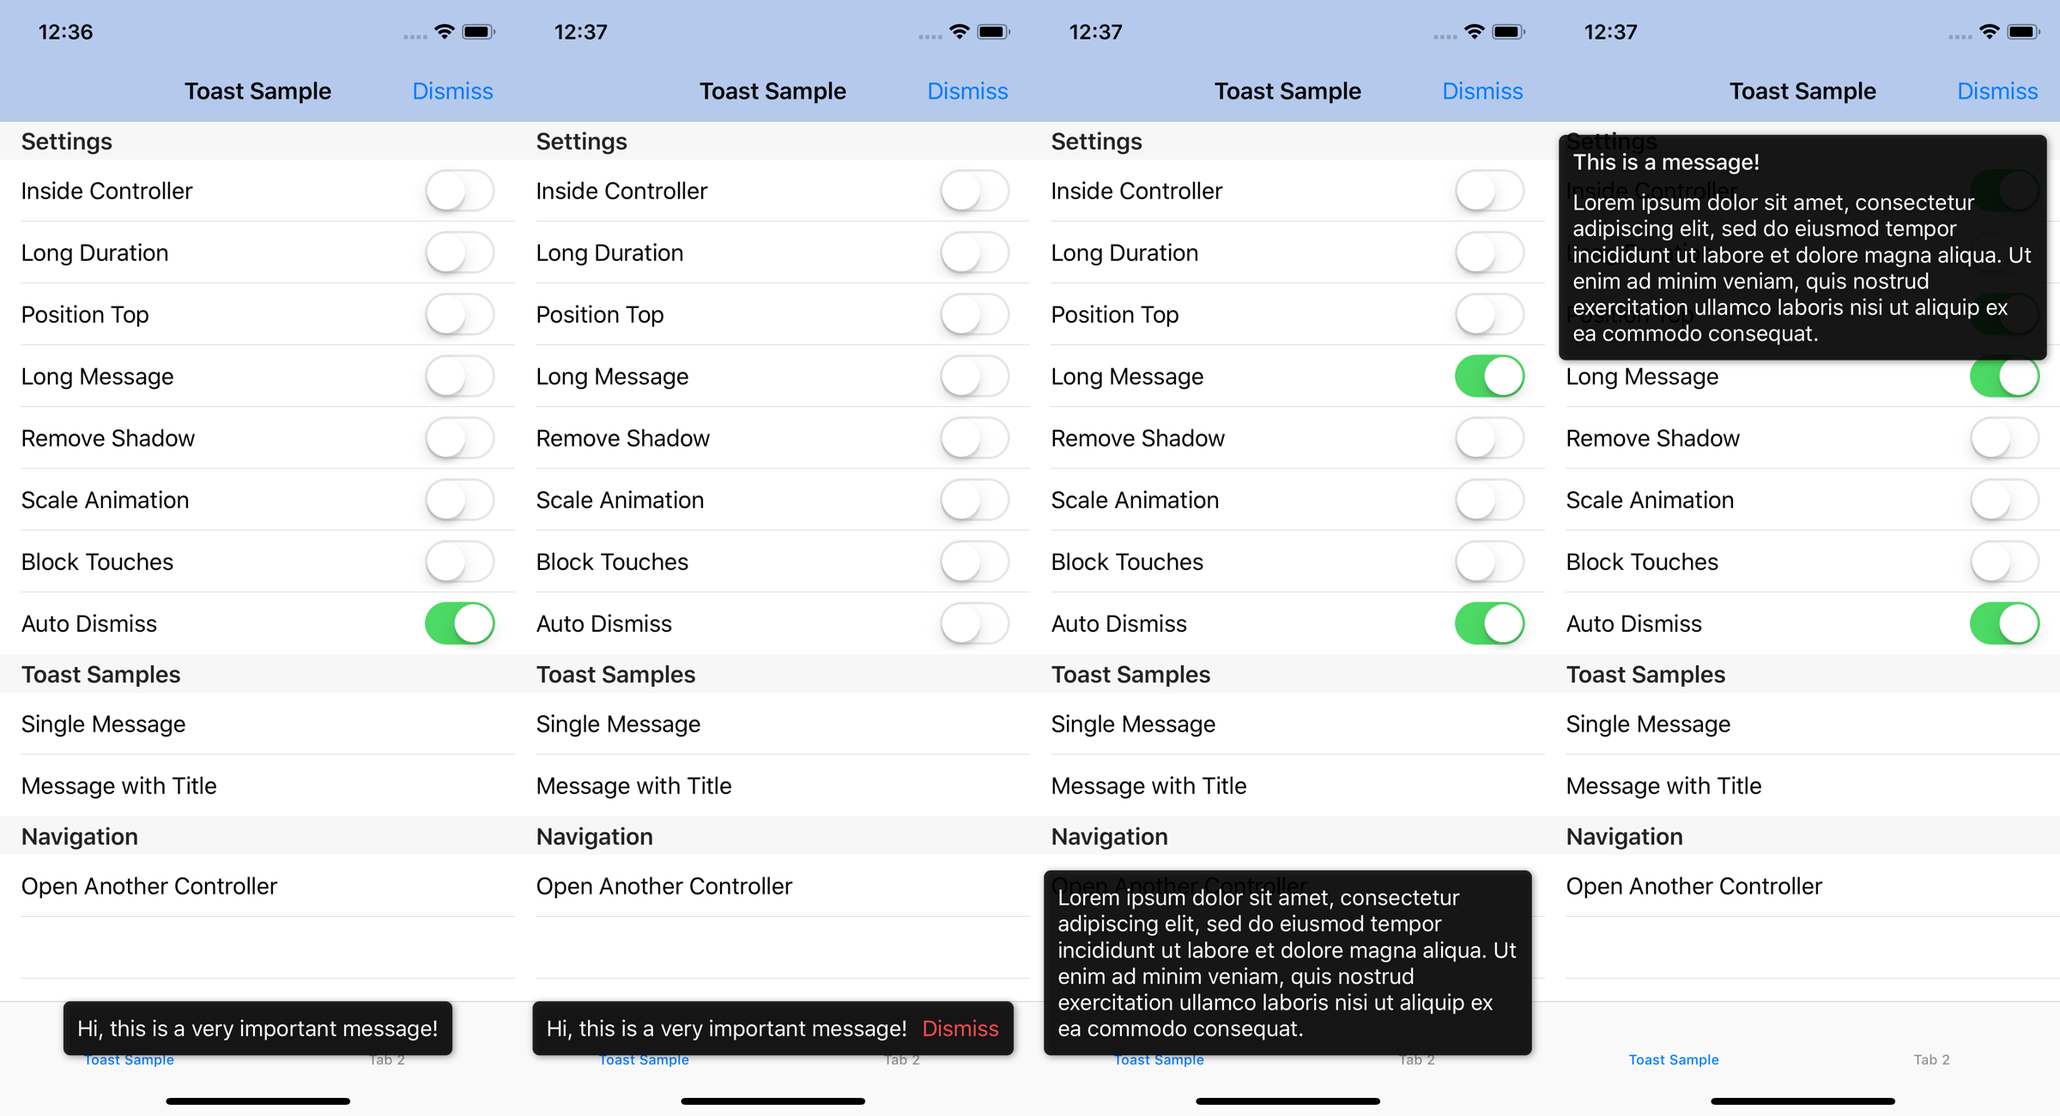
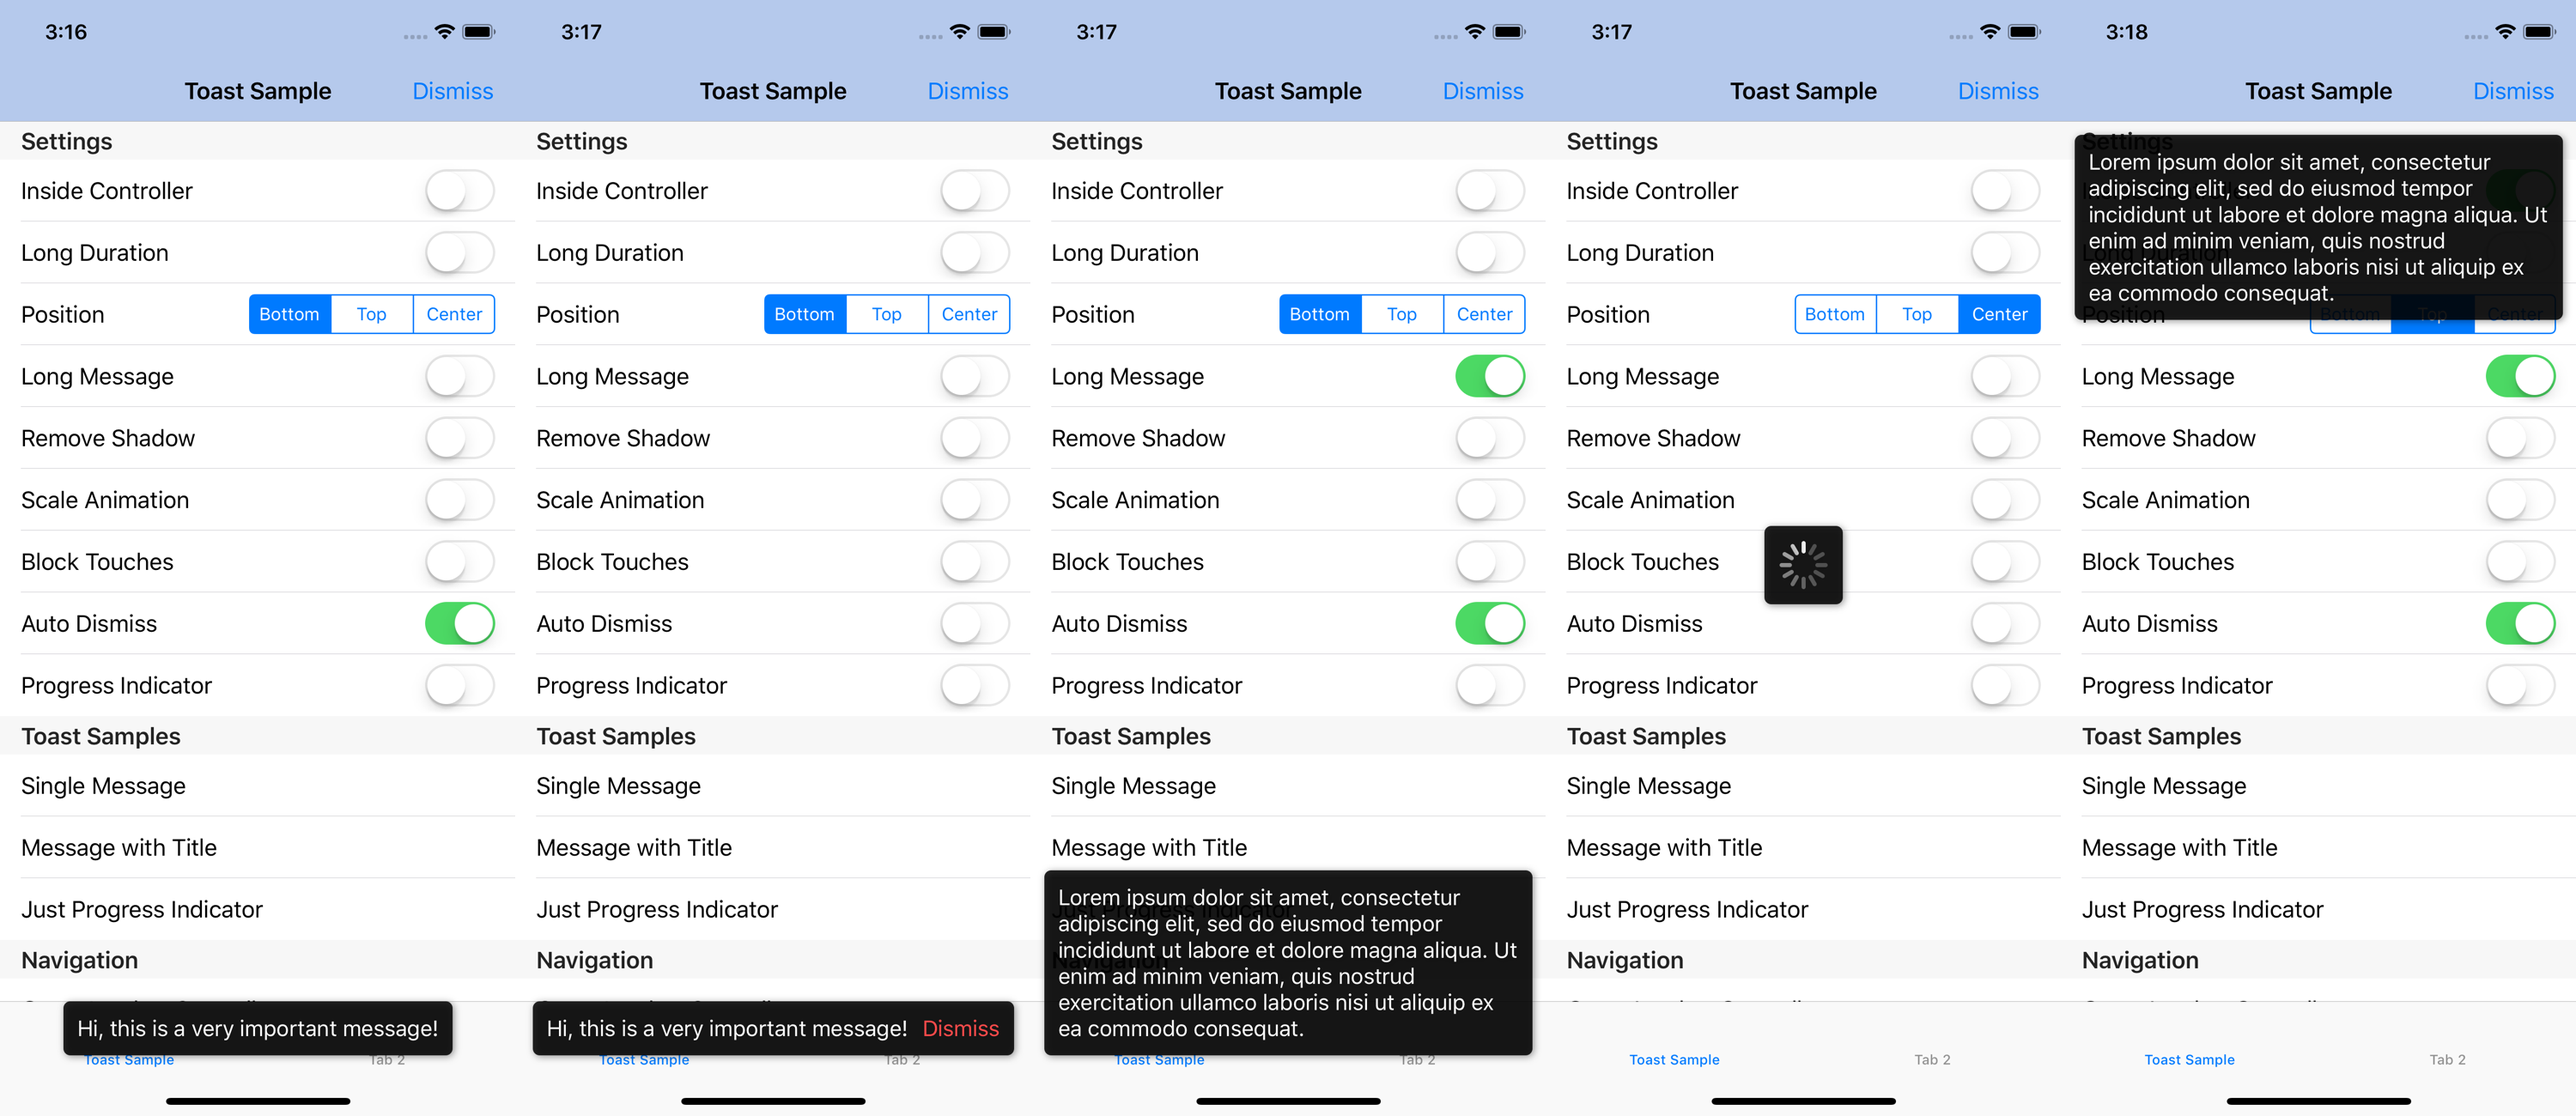
Added ability to dismiss regular toasts. Improved documentation.

diff --git a/Toast/Toast.cs b/Toast/Toast.cs
@@ -93,6 +93,24 @@ namespace GlobalToast
         }
 
         /// <summary>
+        /// Helper method that creates a progress indicator (spinner) 
+        /// without any text and immediately shows it.
+        /// </summary>
+        public static Toast ShowProgressIndicator(ToastPosition position = ToastPosition.Bottom)
+        {
+            var toast = new Toast
+            {
+                Message = null,
+                Title = null,
+                Position = position,
+                ProgressIndicator = true
+            };
+            toast.Show();
+
+            return toast;
+        }
+
+        /// <summary>
         /// Sets the message of the toast
         /// </summary>
         public Toast SetMessage(string message)
@@ -248,46 +266,25 @@ namespace GlobalToast
 
             ToastView.Setup();
 
+            ToastView.AnimateShow();
+
             if(AutoDismiss)
             {
-                ToastView.AnimateShow();
                 new ToastTimer(ToastView, Duration, () =>
                 {
-                    Remove();
+                    Dismiss();
                 }).Start();
-            }
-            else
-            {
-                ToastView.AnimateShow();
-                ToastView.DismissAction = () =>
-                {
-                    ToastView.DismissAction = null;
-                    Remove();
-                };
             }
 
             return this;
         }
 
         /// <summary>
-        /// If <see cref="AutoDismiss"/> is false this method will dismiss 
-        /// shown toast without user input.
+        /// Dismisses the toast without user input.
         /// </summary>
         public void Dismiss()
         {
-            if(AutoDismiss == false)
-                ToastView?.DismissAction?.Invoke();
-        }
-
-        private void Remove()
-        {
-            ToastView.InvokeOnMainThread(() =>
-            {
-                ToastView.AnimateHide(() =>
-                {
-                    ToastView.RemoveFromSuperview();
-                });
-            });
+            ToastView?.Dismiss();
         }
 
         /// <summary>

diff --git a/Toast/ToastViews/BaseToastView.cs b/Toast/ToastViews/BaseToastView.cs
@@ -12,8 +12,6 @@ namespace GlobalToast.ToastViews
         public NSLayoutConstraint CenterXContraint { get; protected set; }
         public NSLayoutConstraint CenterYContraint { get; protected set; }
 
-        public Action DismissAction { get; set; }
-
         protected Toast Toast { get;  }
 
         public virtual UIView ParentView
@@ -169,11 +167,22 @@ namespace GlobalToast.ToastViews
 
         /// <summary>
         /// Start hide animation.
-        /// Completion will be invoked when animation is finished.
+        /// <paramref name="completion"/> will be invoked when animation is finished.
         /// </summary>
         public virtual void AnimateHide(Action completion)
         {
             Toast.Animator.AnimateHide(this, completion);
+        }
+
+        public virtual void Dismiss()
+        {
+            InvokeOnMainThread(() =>
+            {
+                AnimateHide(() =>
+                {
+                    RemoveFromSuperview();
+                });
+            });
         }
     }
 }

diff --git a/Samples/ToastSample/ViewController1.cs b/Samples/ToastSample/ViewController1.cs
@@ -38,7 +38,6 @@ namespace ToastSample
 
             dismissButton.Clicked += (sender, e) => 
             {
-                // Try to dismiss current toast. It will work only if AutoDismiss is false
                 if (_presentedToasts.Count != 0)
                     _presentedToasts.Pop().Dismiss();
             };
@@ -108,7 +107,7 @@ namespace ToastSample
 
         private void ShowSampleSingleLine()
         {
-            var toast = CreateToast().Show();
+            var toast = CreateToast().Show();  
             _presentedToasts.Push(toast);
         }
 

diff --git a/Toast/ToastViews/DismissibleMessageToastView.cs b/Toast/ToastViews/DismissibleMessageToastView.cs
@@ -57,11 +57,6 @@ namespace GlobalToast.ToastViews
             Dismiss();
         }
 
-        protected virtual void Dismiss()
-        {
-            DismissAction?.Invoke();
-        }
-
         public override void RemoveFromSuperview()
         {
             base.RemoveFromSuperview();

diff --git a/Toast/ToastViews/DismissibleTitleMessageToastView.cs b/Toast/ToastViews/DismissibleTitleMessageToastView.cs
@@ -61,11 +61,6 @@ namespace GlobalToast.ToastViews
             Dismiss();
         }
 
-        protected virtual void Dismiss()
-        {
-            DismissAction?.Invoke();
-        }
-
         public override void RemoveFromSuperview()
         {
             base.RemoveFromSuperview();

diff --git a/README.md b/README.md
@@ -2,9 +2,9 @@
 
 Toast is Xamarin iOS toast message library for presenting short automatically disappearing messages. You can choose to add a toast to current KeyWindow of your application which means that toast will not belong to any view controller and will not disappear when navigated away from it. You can also choose to add toast to a specific view controller in which case top and bottom layout guides of parent view controller will be taken into account when positioning the toast.
 
-Toas is very customizable so you can match the style of your application as well as fulfill functional requirements that you have.
+Toast is very customizable so you can match the style of your application as well as fulfill functional requirements that you have.
 
-This library currently allow you to:
+This library currently allows you to:
 
 * Style labels and frame of the toast;
 * Configure layout;
@@ -14,6 +14,7 @@ This library currently allow you to:
 * Pick between two types of show/hide animations;
 * Choose where to add toast (view controller or key window of application)
 * Provide your own view for presentation;
+* Show progress indicator inside the toast;
 
 ## Screenshots
 
@@ -38,8 +39,66 @@ Toast.MakeToast("This is a message")
      .SetParentController(this) // Default is null. This means that toast is added to KeyWindow
      .SetBlockTouches(true) // Default is false. If false touches that occur on the toast will be sent down to parent view
      .SetAutoDismiss(false) // Default is true. If set to false Dismiss button will be shown
+     .SetProgressIndicator(true) // Default is false
      .Show();
 ```
+
+## Progress Indicator
+
+Toast could contain a progress indicator (`UIActivityIndicatorView`). If both `Message` and `Title` are set to `null`, toast will only contain progress indicator.
+
+```cs
+Toast.MakeToast(null).SetProgressIndicator(true).Show();
+```
+Or just:
+```cs
+Toast.ShowProgressIndicator();
+```
+
+If `Message` and/or `Title` is set together with `SetProgressIndicator(true)`, spinner will appear on the left side of the toast.
+
+## Appearance, Layout and Animation
+
+### Appearance
+
+Visual appearance of the toast could be adjusted by setting `ToastAppearance` object like so:
+
+```cs
+Toast.MakeToast("This is a message")
+     .SetAppearance(new ToastAppearance
+{
+   Color = UIColor.Blue,
+   CornerRadius = 8,
+   // Other properties removed for brevity
+}).Show();
+```
+
+### Layout
+
+Layout properties (margin, padding and spacing) of the toast could be adjusted by setting `ToastLayout` object like so:
+
+```cs
+Toast.MakeToast("This is a message")
+     .SetLayout(new ToastLayout
+{
+   PaddingLeading = 16,
+   PaddingTrailing = 16,
+   Spacing = 6,
+   // Other properties removed for brevity
+}).Show();
+```
+
+### Animation
+
+Show and hide animations could be controlled using `ToastAnimator`. There are two animators provided out of the box: `FadeAnimator` (default) and `ScaleAnimator`. Animator could be changed like so:
+
+```cs
+Toast.MakeToast("This is a message")
+     .SetAnimator(new ScaleAnimator())
+     .Show();
+```
+
+In order to provide custom animation you need to subclass `ToastAnimator` and override `AnimateShow` and `AnimateHide` methods.
 
 ## Global Properties
 
@@ -57,15 +116,19 @@ Toast.GlobalAppearance = new ToastAppearance
     Color = UIColor.Blue,
     CornerRadius = 4
 };
+
+// Every toast will use those global properties from now on, 
+// unless they are overridden for a specific instance
+Toast.ShowToast("This is a message");
 ```
 
 ## Auto Layout
 
-Toasts and views inside them are all using Auto Layout. on iOS 11 and above views are constrained to `SafeAreaLayoutGuide`. On pre iOS 11 `SafeAreaLayoutGuide` is not used to keep backwards compatibility. On pre iOS 11 when parent view controller is provided top and bottom layout guides of view controller are used to make sure it appears above/bellow (based on `ToastPosition`) bars.
+Toasts and views inside them are all using Auto Layout. on iOS 11 and above views are constrained to `SafeAreaLayoutGuide`. On pre iOS 11 `SafeAreaLayoutGuide` is not used to keep backwards compatibility. On pre iOS 11 when parent view controller is provided, top and bottom layout guides of view controller are used to make sure it appears above/bellow (based on `ToastPosition`) bars.
 
-## Other Things
+## Auto Dismiss
 
-Manually dismissing toasts can be dismissed not only by user clicking the button, but also from your code.
+Toasts can be dismissed not only by user clicking the button, but also from your code.
 
 ```cs
 var toast = Toast.MakeToast("This is a message")
@@ -74,7 +137,33 @@ var toast = Toast.MakeToast("This is a message")
 toast.Dismiss();
 ```
 
-If toast is auto dismissing calling `Dismiss();` method will have no effect.
+Both auto-dismissible and non-auto-dismissible toasts can be dismissed by calling `Dismiss();` method.
+
+## Writing Custom Views
+
+When creating custom toast views make sure to subclass `BaseToastView`. There are 2 main methods that you need to override: `Initialize()` and `ConstrainChildren()`.
+
+### Creating Sub Views
+
+In `Initialize()` method initialize, add and populate UI components needed for the view. `Toast` instance will come as a constructor parameter.
+
+### Positioning Sub Views
+
+In `ConstrainChildren()` add Auto Layout constrains for views initialized in `Initialize()`. Make sure to use `UIView` extension methods provided in `UIViewExtensions` to get backwards compatible anchors (`NSLayout*AxisAnchor` and `NSLayoutDimension`). Look in one of the provided views for simple examples (`ToastViews` folder).
+
+### Presenting Custom Views
+
+To use custom built view, call `SetToastViewFactory` and provide a `Func` that will return your newly built view.
+
+```cs
+Toast.MakeToast("This is a message")
+     .SetToastViewFactory(t => new MyNewToastView(t))
+     .Show();
+```
+
+### Adding Additional Parameters
+
+If you want to add additional parameters to your custom toast view (like images,  etc.) you should add another constructor with all values that you need and pass parameters when constructing the view in `SetToastViewFactory` method.
 
 ## Backwards compatibility 
 
